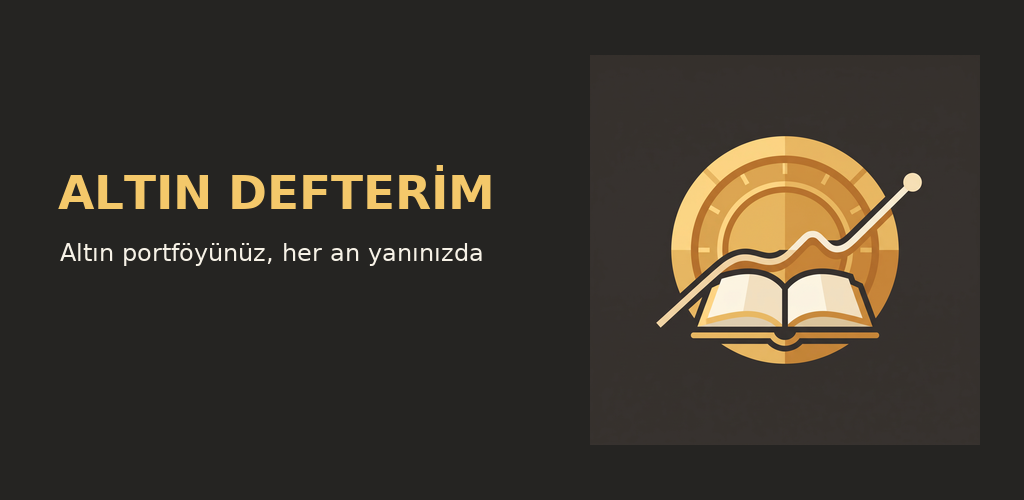
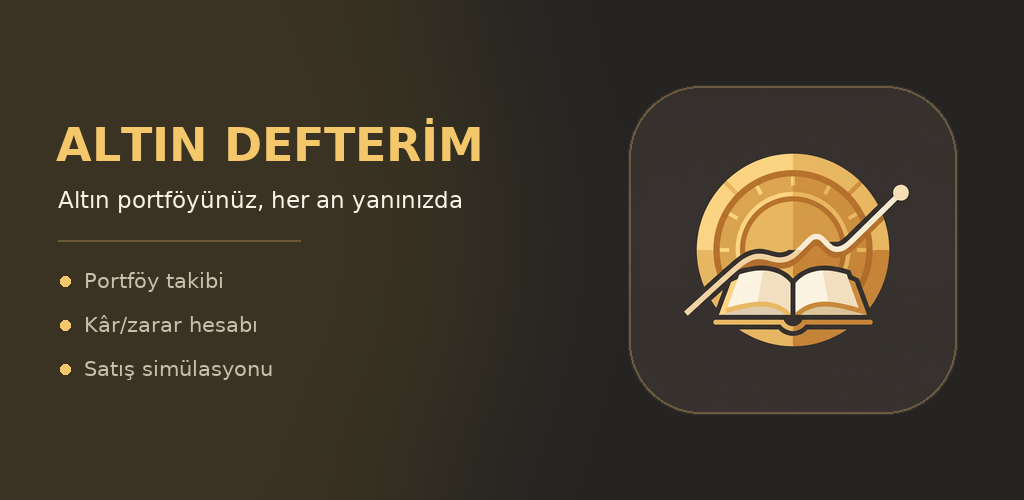
Generate bilingual Play feature graphics

diff --git a/tool/generate_icons.py b/tool/generate_icons.py
@@ -3,7 +3,7 @@
 
 import json
 from pathlib import Path
-from PIL import Image, ImageDraw, ImageFont
+from PIL import Image, ImageDraw, ImageFilter, ImageFont
 
 ROOT = Path(__file__).resolve().parent.parent
 SOURCE = ROOT / "assets/branding/app_icon_source.png"
@@ -58,15 +58,81 @@ store = ROOT / "store"
 store.mkdir(exist_ok=True)
 resize(512).save(store / "icon-512.png", optimize=True)
 
-feature = Image.new("RGB", (1024, 500), "#252422")
-icon = resize(390)
-feature.paste(icon, (590, 55))
-draw = ImageDraw.Draw(feature)
-font_path = "/usr/share/fonts/truetype/dejavu/DejaVuSans-Bold.ttf"
-small_path = "/usr/share/fonts/truetype/dejavu/DejaVuSans.ttf"
-title = ImageFont.truetype(font_path, 47)
-subtitle = ImageFont.truetype(small_path, 24)
-draw.text((58, 165), "ALTIN DEFTERİM", font=title, fill="#F4C86A")
-draw.text((60, 238), "Altın portföyünüz, her an yanınızda", font=subtitle, fill="#F7F2E7")
-feature.save(store / "play-feature-graphic.png", optimize=True)
-print("Android, iOS ve Play Store görselleri üretildi.")
+FEATURE_BG = "#252422"
+GOLD = "#F4C86A"
+CREAM = "#F7F2E7"
+MUTED = "#C9BFAB"
+BOLD_FONT = "/usr/share/fonts/truetype/dejavu/DejaVuSans-Bold.ttf"
+REGULAR_FONT = "/usr/share/fonts/truetype/dejavu/DejaVuSans.ttf"
+
+
+def rounded_icon(size: int, radius_ratio: float = 0.22) -> Image.Image:
+    """Kaynak görseli yuvarlatılmış köşeli, alfa kanallı kare simgeye dönüştürür."""
+    icon = source.resize((size, size), Image.Resampling.LANCZOS).convert("RGBA")
+    mask = Image.new("L", (size, size), 0)
+    ImageDraw.Draw(mask).rounded_rectangle(
+        (0, 0, size - 1, size - 1), radius=int(size * radius_ratio), fill=255
+    )
+    icon.putalpha(mask)
+    return icon
+
+
+def build_feature(locale: str) -> None:
+    """1024x500 Play özellik grafiği. Metinler dil bazlıdır, simge aynıdır."""
+    copy = {
+        "tr": {
+            "title": "ALTIN DEFTERİM",
+            "subtitle": "Altın portföyünüz, her an yanınızda",
+            "bullets": ["Portföy takibi", "Kâr/zarar hesabı", "Satış simülasyonu"],
+            "filename": "play-feature-graphic.png",
+        },
+        "en": {
+            "title": "ALTIN DEFTERİM",
+            "subtitle": "Your gold portfolio, always with you",
+            "bullets": ["Portfolio tracking", "Profit/loss", "Sale simulation"],
+            "filename": "play-feature-graphic-en.png",
+        },
+    }[locale]
+
+    canvas = Image.new("RGB", (1024, 500), FEATURE_BG)
+    draw = ImageDraw.Draw(canvas)
+
+    # Soldan hafif altın parıltısı (kenarı yumuşatılmış)
+    glow = Image.new("L", (1024, 500), 0)
+    ImageDraw.Draw(glow).ellipse((-300, -190, 500, 660), fill=52)
+    glow = glow.filter(ImageFilter.GaussianBlur(70))
+    canvas.paste(Image.new("RGB", (1024, 500), "#8a6b23"), (0, 0), glow)
+
+    # Sağdaki yuvarlatılmış simge + ince altın çerçeve
+    icon = rounded_icon(330)
+    frame = Image.new("RGBA", (330, 330), (0, 0, 0, 0))
+    ImageDraw.Draw(frame).rounded_rectangle(
+        (1, 1, 328, 328), radius=int(330 * 0.22), outline=(244, 200, 106, 70), width=2
+    )
+    icon = Image.alpha_composite(icon, frame)
+    canvas.paste(icon, (628, 85), icon)
+
+    title_font = ImageFont.truetype(BOLD_FONT, 46)
+    subtitle_font = ImageFont.truetype(REGULAR_FONT, 23)
+    bullet_font = ImageFont.truetype(REGULAR_FONT, 21)
+
+    draw.text((56, 118), copy["title"], font=title_font, fill=GOLD)
+    draw.text((58, 186), copy["subtitle"], font=subtitle_font, fill=CREAM)
+
+    # İnce altın ayırıcı ve üç madde
+    draw.line((58, 240, 300, 240), fill="#6b5a33", width=2)
+    y = 268
+    for item in copy["bullets"]:
+        draw.ellipse((60, y + 8, 70, y + 18), fill=GOLD)
+        draw.text((84, y), item, font=bullet_font, fill=MUTED)
+        y += 44
+
+    canvas.save(store / copy["filename"], optimize=True)
+
+
+store = ROOT / "store"
+store.mkdir(exist_ok=True)
+resize(512).save(store / "icon-512.png", optimize=True)
+build_feature("tr")
+build_feature("en")
+print("Android, iOS ve Play Store görselleri üretildi (TR + EN feature graphic).")

diff --git a/store/graphics.md b/store/graphics.md
@@ -1,0 +1,59 @@
+# Mağaza görselleri (Play Console)
+
+| Dosya | Boyut | Nerede kullanılır | Dil |
+|---|---|---|---|
+| `store/icon-512.png` | 512×512 PNG (alfa yok) | Uygulama simgesi (App icon) | Her iki dilde aynı |
+| `store/play-feature-graphic.png` | 1024×500 PNG | Özellik grafiği (Feature graphic) | 🇹🇷 Türkçe |
+| `store/play-feature-graphic-en.png` | 1024×500 PNG | Özellik grafiği (Feature graphic) | 🇬🇧 English |
+
+> Play, özellik grafiği ve ekran görüntülerini **dil bazında** ister. Simge tüm dillerde
+> aynıdır; iki kez yüklemek gerekmez (yüklerseniz de aynı dosyayı kullanın).
+
+---
+
+## Play Console'a yükleme sırası
+
+1. **Mağazayı büyüt → Mağaza varlığı → Ana mağaza girişi**
+2. Önce **varsayılan dil** (Türkçe) girişini doldur:
+   - **Uygulama simgesi**: `store/icon-512.png`
+   - **Özellik grafiği**: `store/play-feature-graphic.png`
+3. **Dil çevirileri → Çeviri ekle → English (en-US)**
+   - **Özellik grafiği**: `store/play-feature-graphic-en.png`
+   - Simge alanını boş bırakabilirsin (varsayılan dilden devralınır)
+
+## Play teknik kuralları
+
+| Görsel | Zorunlu | Biçim | Not |
+|---|---|---|---|
+| Uygulama simgesi | ✅ | 512×512 PNG, 32-bit, **saydamlık yok** | Alpha kanalı varsa reddedilir |
+| Özellik grafiği | ✅ | 1024×500 PNG/JPEG, alpha **yasak** | Metin küçük kalmamalı; çok önemli alanlar kenarlardan uzak dursun |
+| Telefon ekran görüntüsü | ✅ (min 2) | 16:9 veya 9:16, 320–3840 px | Henüz üretilmedi |
+| 7 inç / 10 inç tablet | ❌ opsiyonel | — | Yalnızca tablet desteği açılırsa |
+| Tanıtım videosu | ❌ opsiyonel | YouTube bağlantısı | Gerekmiyor |
+
+**Bizim dosyalarımız:** simge RGB (alfa yok) ✅ · özellik grafiği RGB (alfa yok) ✅
+
+## Tasarım kararları
+
+- **Simge:** koyu antrasit zemin + altın sikke + açık defter + yükselen grafik çizgisi.
+  Defter = kayıt, sikke = altın, grafik = değer/kâr-zarar.
+- **Özellik grafiği:** solda altın renkli başlık ve üç madde, sağda yuvarlatılmış köşeli simge.
+  Zemin `#252422`, başlık `#F4C86A`, metin `#F7F2E7`.
+- **Dil:** aynı kompozisyon iki dilde; yalnızca metinler değişiyor.
+
+## Yeniden üretme
+
+```bash
+python3 -m venv .icon-venv
+.icon-venv/bin/pip install Pillow
+.icon-venv/bin/python tool/generate_icons.py
+```
+
+Betik tek çalıştırmada üretir:
+
+- Android mipmap'leri (`mdpi`–`xxxhdpi`) + adaptive icon XML'i + `colors.xml`
+- iOS `AppIcon.appiconset` içindeki bütün boyutlar
+- `store/icon-512.png`, `store/play-feature-graphic.png`, `store/play-feature-graphic-en.png`
+
+Kaynak görsel: `assets/branding/app_icon_source.png` (2048×2048). Değiştirmek isterseniz
+yalnızca bu dosyayı güncelleyip betiği tekrar çalıştırmak yeterli.
